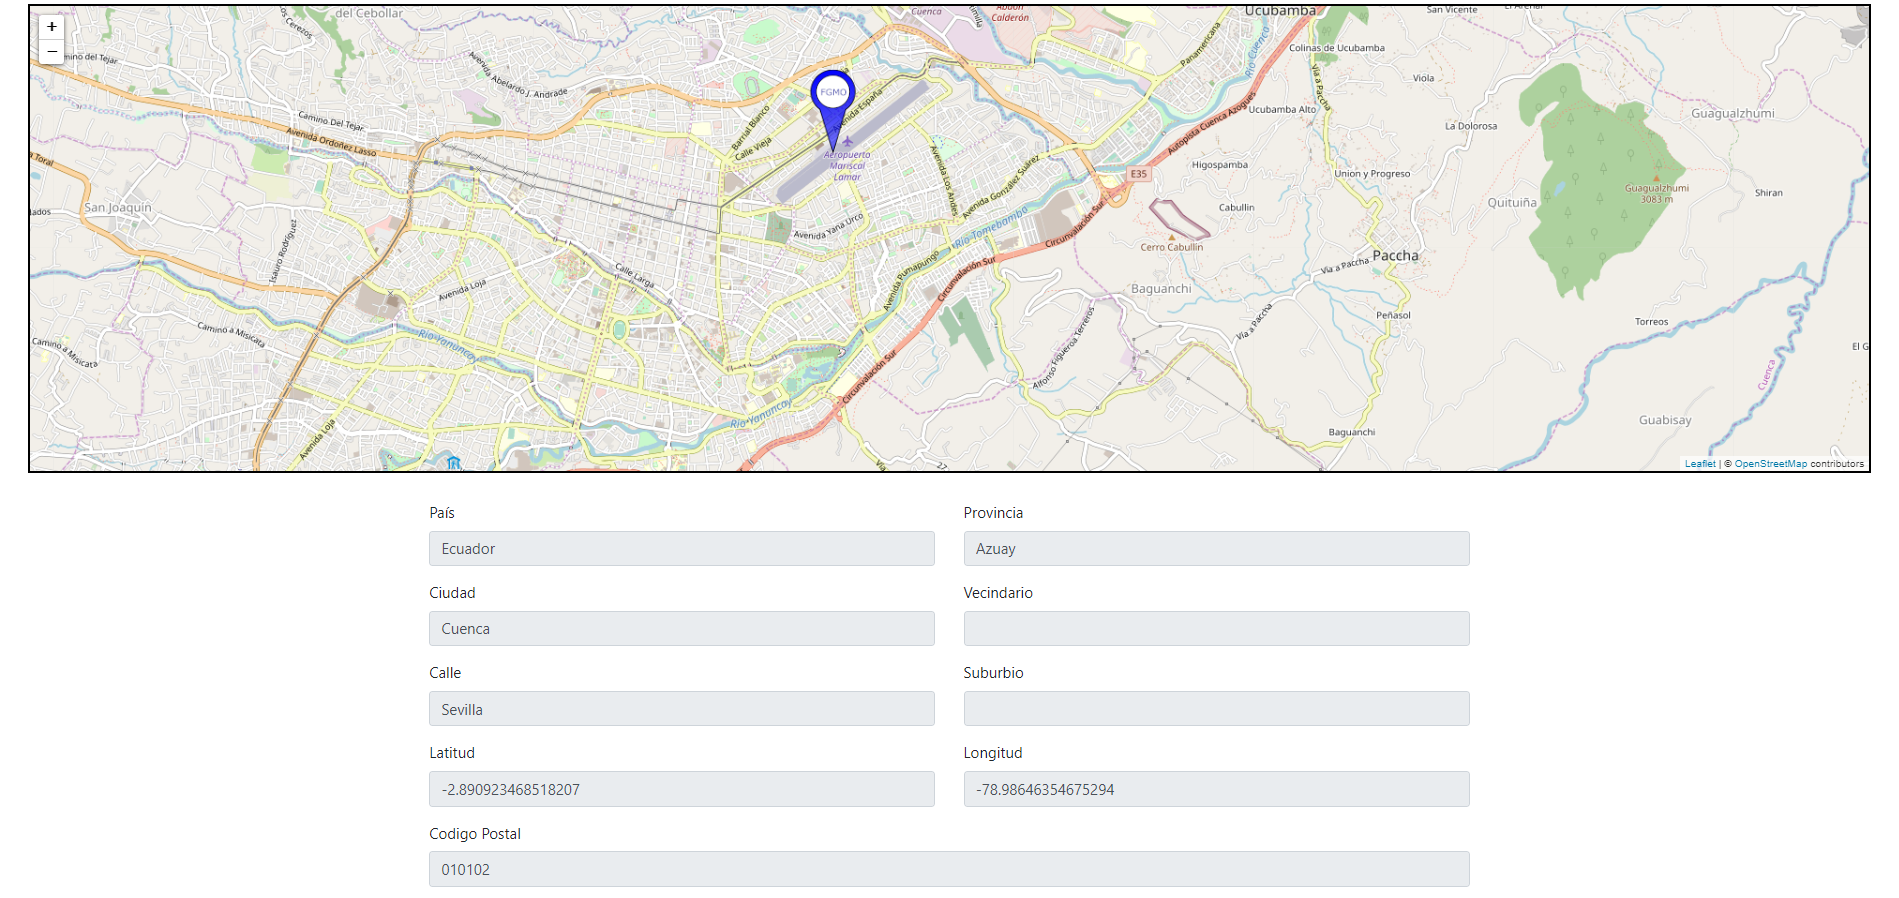
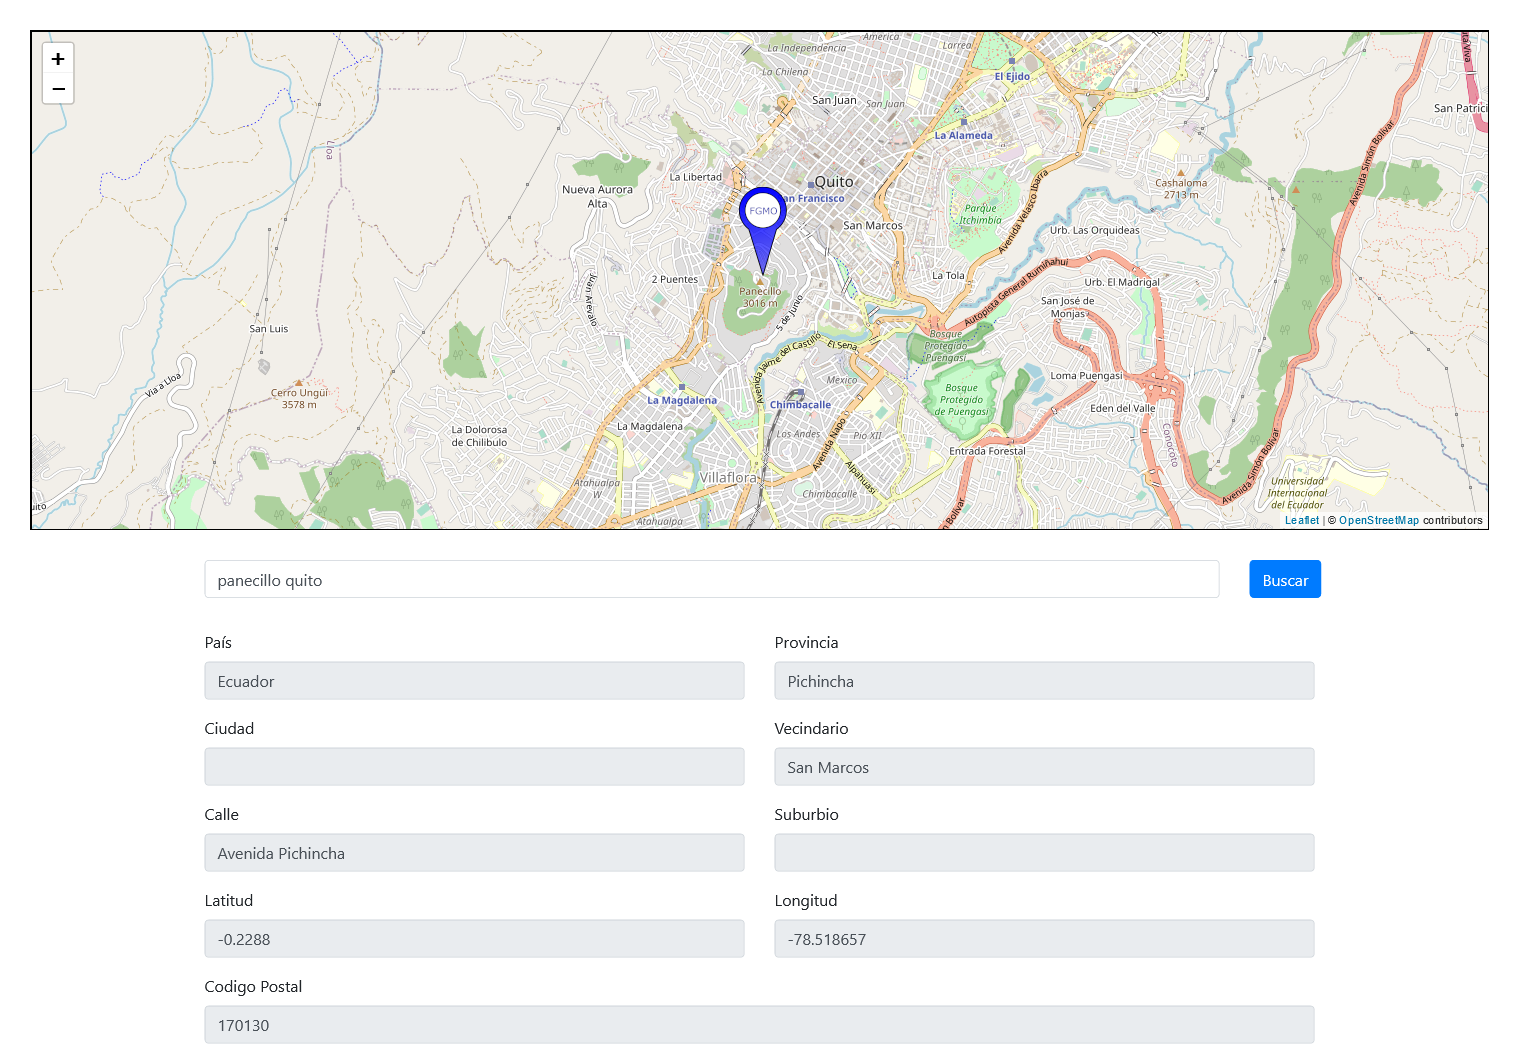
Agrego buscador al mapa.

diff --git a/src/app/components/map/map.component.ts b/src/app/components/map/map.component.ts
@@ -6,7 +6,9 @@
 
 import { Component, OnInit, Input, Output, EventEmitter } from '@angular/core';
 
-import { Map, tileLayer, Marker, icon } from 'leaflet';
+import { Map, tileLayer, Marker, LatLng, icon } from 'leaflet';
+
+import { PlaceModel } from 'src/app/models/place.model';
 import { AddressModel } from 'src/app/models/address.model';
 
 @Component({
@@ -16,7 +18,8 @@ import { AddressModel } from 'src/app/models/address.model';
 })
 export class MapComponent implements OnInit {
 
-  static TOKEN = 'b9f62d2bd99bbf';
+  static TOKEN: string = 'b9f62d2bd99bbf';
+  static URL: string = 'https://us1.locationiq.com/v1';
 
   private map: Map;
   private marcador: Marker;
@@ -29,11 +32,13 @@ export class MapComponent implements OnInit {
   @Output() private location: EventEmitter<AddressModel>;
 
   private address: AddressModel;
+  private places: Array<PlaceModel>;
 
 
   constructor() {
     this.location = new EventEmitter();
     this.address = new AddressModel();
+    this.places = new Array<PlaceModel>();
   }
 
   ngOnInit() {
@@ -46,6 +51,12 @@ export class MapComponent implements OnInit {
    * Inicializa todo el componente del mapa.
    */
   leafletMap() {
+
+    if (this.map) {
+      this.map.off();
+      this.map.remove();
+    }
+
     this.map = new Map('map').setView([this.lat, this.lng], this.zoom); //Inicializa al mapa.
     tileLayer('https://{s}.tile.openstreetmap.org/{z}/{x}/{y}.png', { //Carga la capa base para el mapa.
       attribution: '&copy; <a href="https://www.openstreetmap.org/copyright">OpenStreetMap</a> contributors',
@@ -104,8 +115,8 @@ export class MapComponent implements OnInit {
    * @param lat -> Latitud.
    * @param lng -> Longitud.
    */
-  async  getLocationData(lat: number, lng: number) {
-    let url: string = `https://us1.locationiq.com/v1/reverse.php?key=${MapComponent.TOKEN}&lat=${lat}&lon=${lng}&format=json`;
+  async getLocationData(lat: number, lng: number) {
+    let url: string = `${MapComponent.URL}/reverse.php?key=${MapComponent.TOKEN}&lat=${lat}&lon=${lng}&format=json`;
     const response = await fetch(url);
     return await response.json();
   }
@@ -126,6 +137,58 @@ export class MapComponent implements OnInit {
     this.address.setSuburb(data['address']['suburb']);
     this.address.setState(data['address']['state']);
     this.location.emit(this.address);
+  }
+
+  /**
+   * Busca ubicaciones por su nombre y las agrega al arreglo de lugares.
+   * 
+   * @param query 
+   * @returns 
+   */
+  async searchLocation(query: string) {
+    if (!query) return;
+    this.places = [];
+    this.address = new AddressModel();
+    this.location.emit(this.address);
+    let url: string = `${MapComponent.URL}/search.php?key=${MapComponent.TOKEN}&q=${query}&format=json`;
+    const response = await fetch(url);
+    const data = await response.json();
+    data.forEach((res) => {
+      let place: PlaceModel = new PlaceModel(res['display_name'], res['lat'], res['lon'], res['type']);
+      this.places.push(place);
+    });
+  }
+
+  /**
+   * Setea la ubicacion selecionada en el mapa.
+   * 
+   * @param place 
+   * @returns 
+   */
+  setLocation(place: PlaceModel) {
+    if (!place) return;
+
+    this.lat = place.getLatitude();
+    this.lng = place.getLongitude();
+
+    this.leafletMap();
+
+    const latlng = new LatLng(this.lat, this.lng);
+    this.marcador.setLatLng(latlng);
+    this.marcador.addTo(this.map);
+
+    this.places = [];
+
+    this.getLocation();
+  }
+
+  /**
+   * Retorna una lista con los lugares.
+   * 
+   * @returns 
+   */
+  getPlaces() {
+    return this.places;
   }
 
 }

diff --git a/src/app/models/place.model.ts b/src/app/models/place.model.ts
@@ -1,0 +1,53 @@
+export class PlaceModel {
+    private displayName: string;
+    private latitude: number;
+    private longitude: number;
+    private type: string;
+
+    constructor(displayName?: string, latitude?: number, longitude?: number, type?: string) {
+        this.displayName = displayName;
+        this.latitude = latitude || 0.0;
+        this.longitude = longitude || 0.0;
+        this.type = type;
+    }
+
+
+    setDisplayName(displayName: string) {
+        this.displayName = displayName;
+    }
+
+    getDisplayName() {
+        return this.displayName;
+    }
+
+    setLatitude(latitude: number) {
+        this.latitude = latitude || 0.0;
+    }
+    getLatitude() {
+        return this.latitude;
+    }
+
+    setLongitude(longitude: number) {
+        this.longitude = longitude || 0.0;
+    }
+    getLongitude() {
+        return this.longitude;
+    }
+
+    setType(type: string) {
+        this.type = type;
+    }
+
+    getType() {
+        return this.type;
+    }
+
+    toJson() {
+        return {
+            displayName: this.getDisplayName(),
+            latitude: this.getLatitude(),
+            longitude: this.getLongitude(),
+            type: this.getType()
+        };
+    }
+}

diff --git a/src/app/models/address.model.ts b/src/app/models/address.model.ts
@@ -14,8 +14,8 @@ export class AddressModel {
         road?: string, suburb?: string, state?: string) {
         this.city = city;
         this.country = country;
-        this.latitude = latitude;
-        this.longitude = longitude;
+        this.latitude = latitude || 0.0;
+        this.longitude = longitude || 0.0;
         this.neighbourhood = neighbourhood;
         this.postcode = postcode;
         this.road = road;
@@ -38,14 +38,14 @@ export class AddressModel {
     }
 
     setLatitude(latitude: number) {
-        this.latitude = latitude;
+        this.latitude = latitude || 0.0;
     }
     getLatitude() {
         return this.latitude;
     }
 
     setLongitude(longitude: number) {
-        this.longitude = longitude;
+        this.longitude = longitude || 0.0;
     }
     getLongitude() {
         return this.longitude;

diff --git a/src/app/components/map/map.component.html b/src/app/components/map/map.component.html
@@ -3,3 +3,21 @@
     <div id="map"></div>
   </div>
 </div>
+
+<div class="container">
+  <div class="row g-3">
+    <div class="col-md-11">
+      <input #txtBuscar type="text" class="form-control " placeholder="Buscar"
+        (keydown.enter)="searchLocation(txtBuscar.value)">
+    </div>
+    <div class="col-md-1">
+      <button class="btn btn-primary mb-3" (click)="searchLocation(txtBuscar.value)">Buscar</button>
+    </div>
+  </div>
+
+  <ol *ngIf="getPlaces()">
+    <li *ngFor="let place of getPlaces()" (click)="setLocation(place)">
+      {{place.getDisplayName()}}
+    </li>
+  </ol>
+</div>

diff --git a/src/app/app.component.html b/src/app/app.component.html
@@ -1,6 +1,6 @@
 <app-map (location)="getAddress($event)" [lat]="-0.180653" [lng]="-78.467834" [isEditing]="true"></app-map>
 <div class="container">
-    <form *ngIf="getAdrs()">
+    <form *ngIf="getAdrs().getLatitude()">
         <div class="row">
             <div class="col">
                 <div class="form-group">

diff --git a/src/app/components/map/map.component.css b/src/app/components/map/map.component.css
@@ -1,3 +1,7 @@
+li{
+  cursor: pointer;
+}
+
 .map-container {
     top: 0;
     left: 0;
